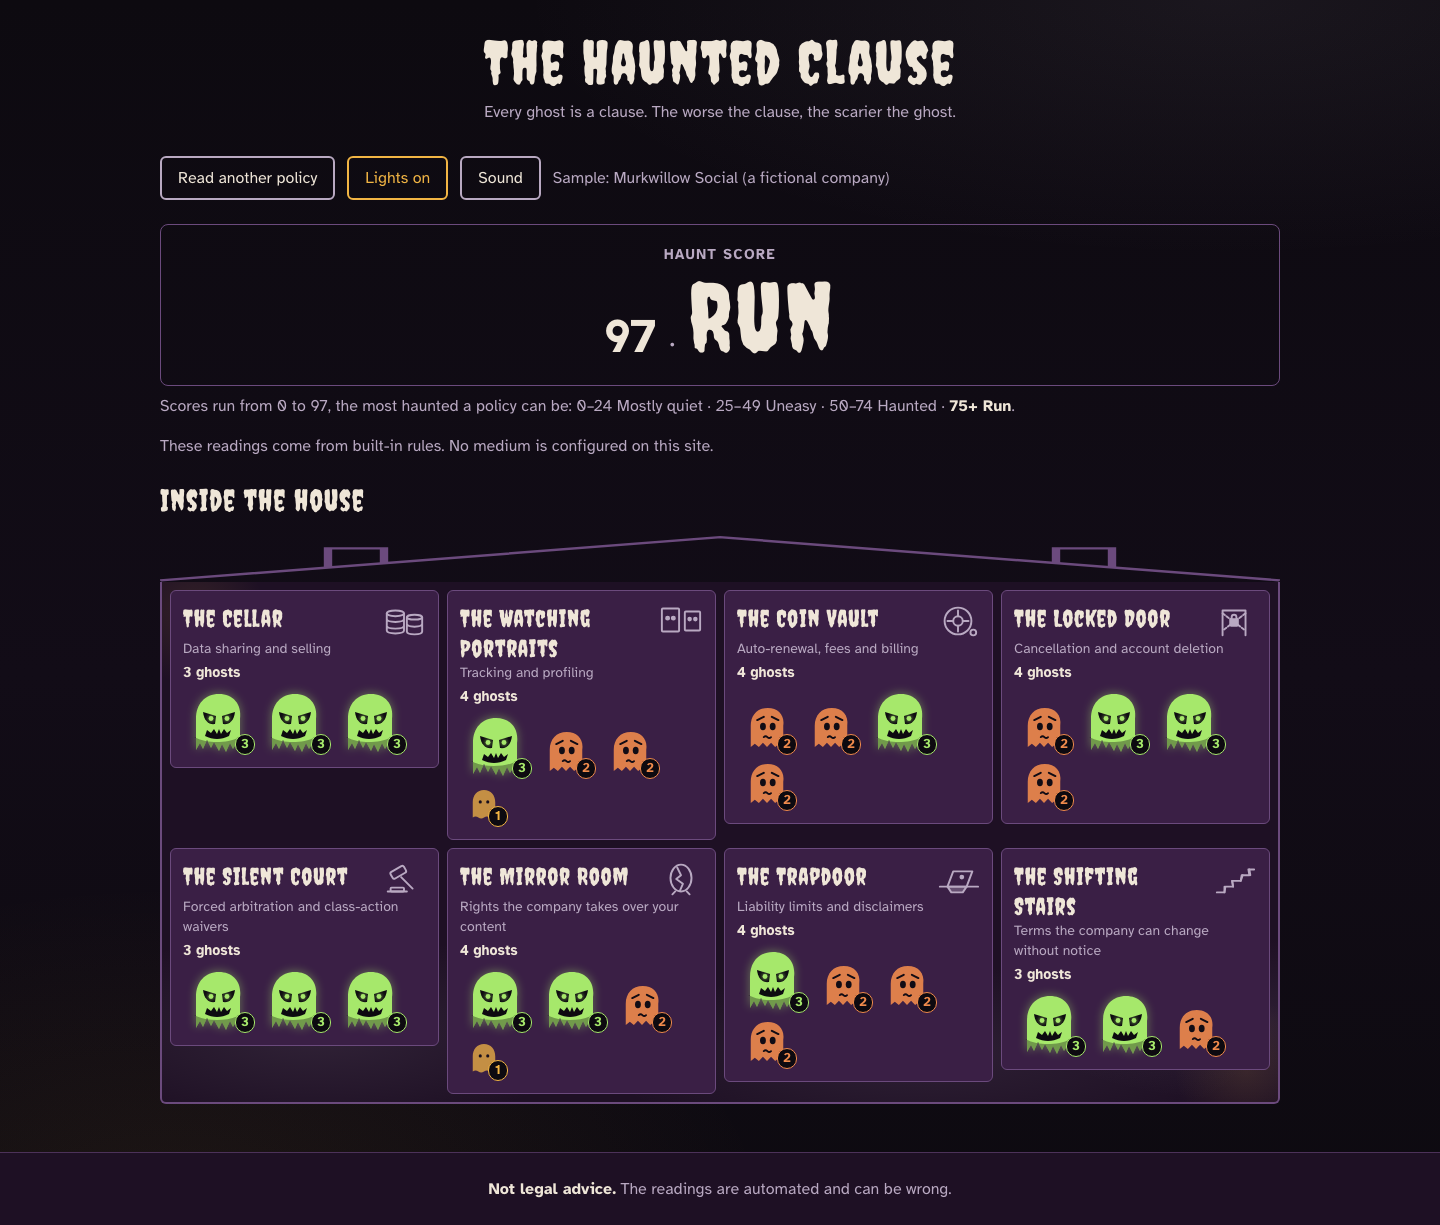
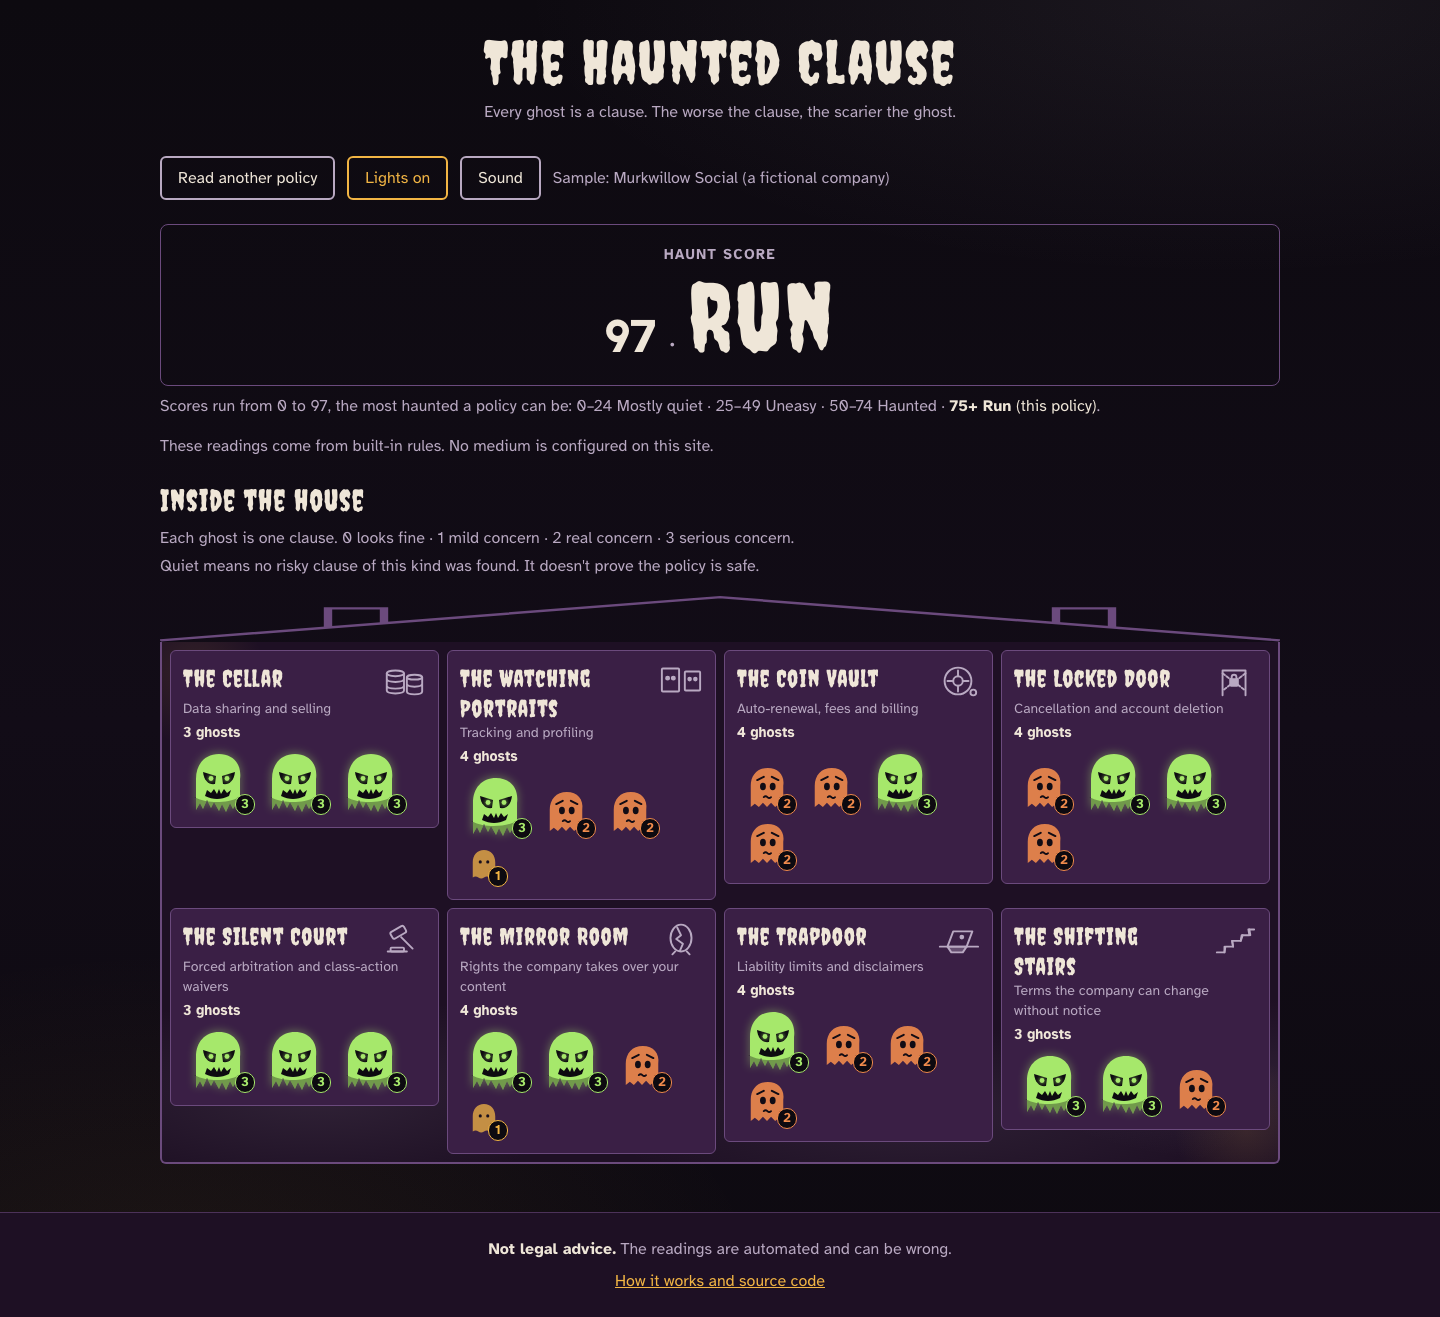
Screenshots regenerated with the first-visit explanations (C25)

Changed region(s): [[0.0938, 0.1861, 0.9062, 0.6514], [0.125, 0.6824, 0.9062, 0.9927], [0.125, 0.031, 0.6875, 0.1861]]

diff --git a/BUILD_LOG.md b/BUILD_LOG.md
@@ -1149,3 +1149,5 @@ No real company name or policy text is recorded here; they stay in the git-ignor
 - **One existing assertion changed, because the requested footer link changes it:** the `keyboard.spec.ts` tab-order test required that nothing focusable follow the last room. It now requires exactly one stop after the last room, the "How it works and source code" link, as R9.7's order ("…rooms in room order, footer") allows. This is stricter about what follows the rooms, not looser.
 - **Code:** `src/lib/ui/copy.ts` (all the new copy; the legend's words come from `severityLabel`), `HouseLegend.tsx`, and changes to `InputScreen`, `ScoreScale`, `HouseView`, `LightsOnList`, `OptInPanel` (the intro is its own paragraph before the unchanged `OPT_IN_NOTICE`, so README.md's word-for-word copy still matches), `DetailDialog` and `Footer`. Item 4 went in the legend, not under every quiet room.
 - **Checks**, one at a time: `npm run test:coverage` 76 files, 906 passed, lines 97.18%; lint and type-check clean; `CI=1 npm run test:e2e` 108 passed across both projects. `check:trace` covers 246 criteria. `tasks.md` was edited by a script, so the Spec sync hook did not fire; this entry is the record. No analyzer file changed, so the sample scores stay 14, 59 and 97.
+- **Push (C25):** `c30a96f..ed89388` after the four pre-push checks passed (254 tracked files). Vercel built it on its own: `dpl_2TJSVm3TpPjuy2p4DQLj7GTeU2Gn`, production, `READY`. On the live site (Playwright library, 1440 px): the input note and footer link show; the samples read 14, 59 and 97 with "0–24 Mostly quiet (this policy)", "50–74 Haunted (this policy)" and "75+ Run (this policy)"; the legend shows both lines; the panel shows "Rule reading From the app's built-in rules"; Lights on has one legend; for a made-up pasted text the opt-in panel opens with "The medium is an AI that rewrites these readings in plainer words." "Ask the medium" was not pressed: 0 `/api/` requests, 0 console errors.
+- **Screenshots:** `CI=1 npm run screenshots` (3 passed, fresh no-key build) rewrote all 13 images, and all 13 changed (the footer link is on every screen). `input-360.png` and `house-mild-360.png` were checked by eye.
